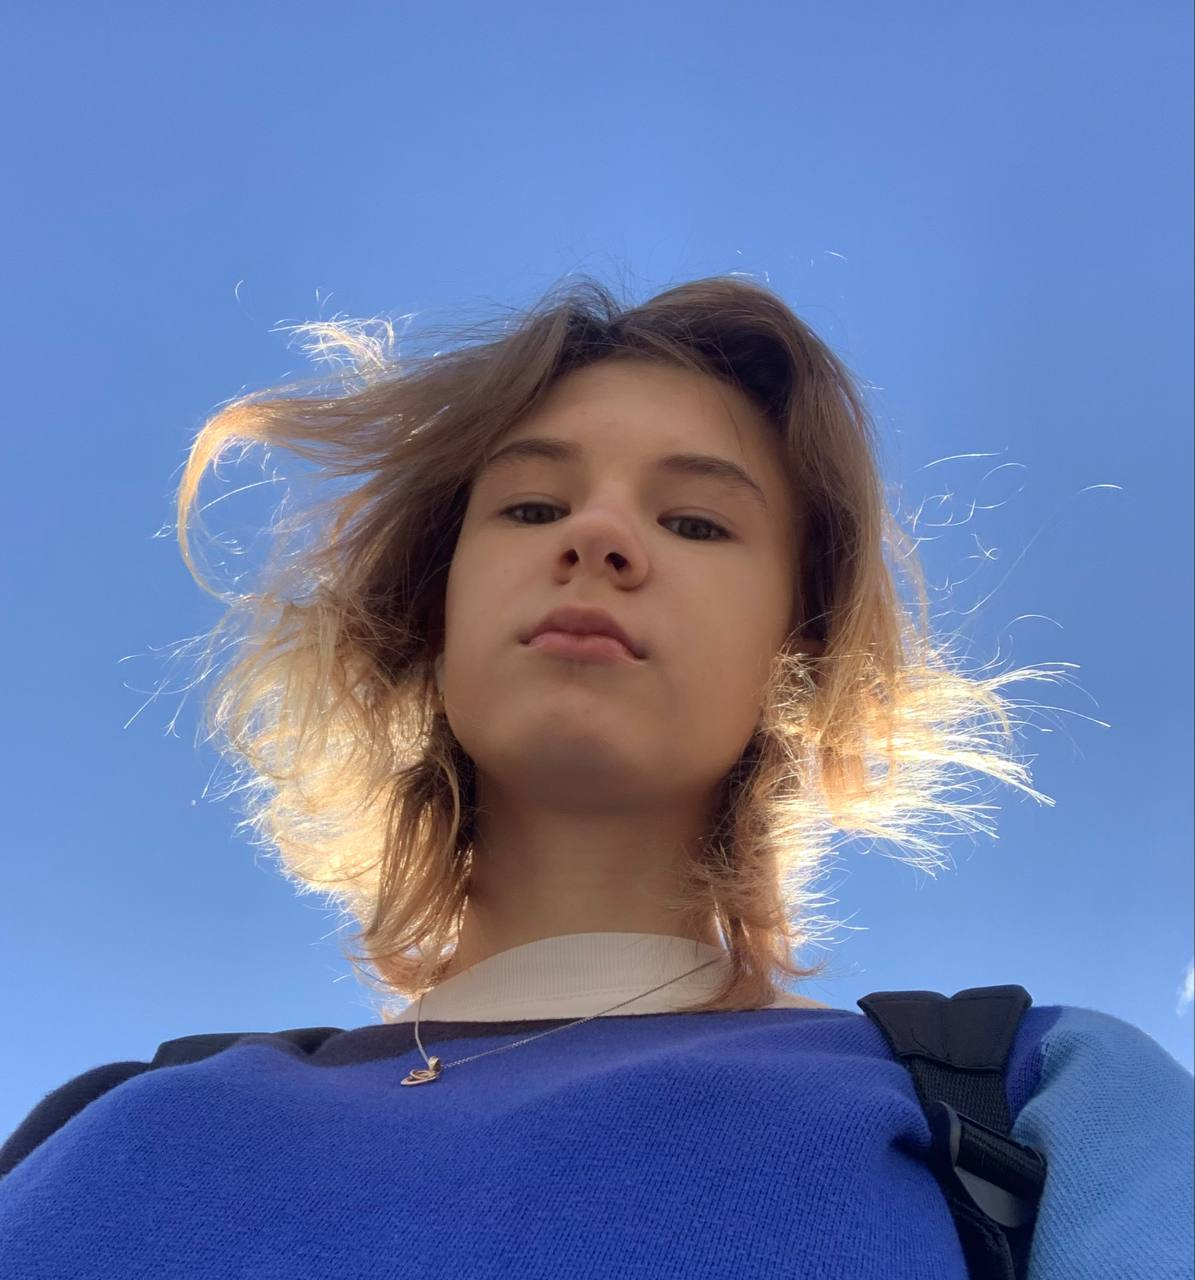
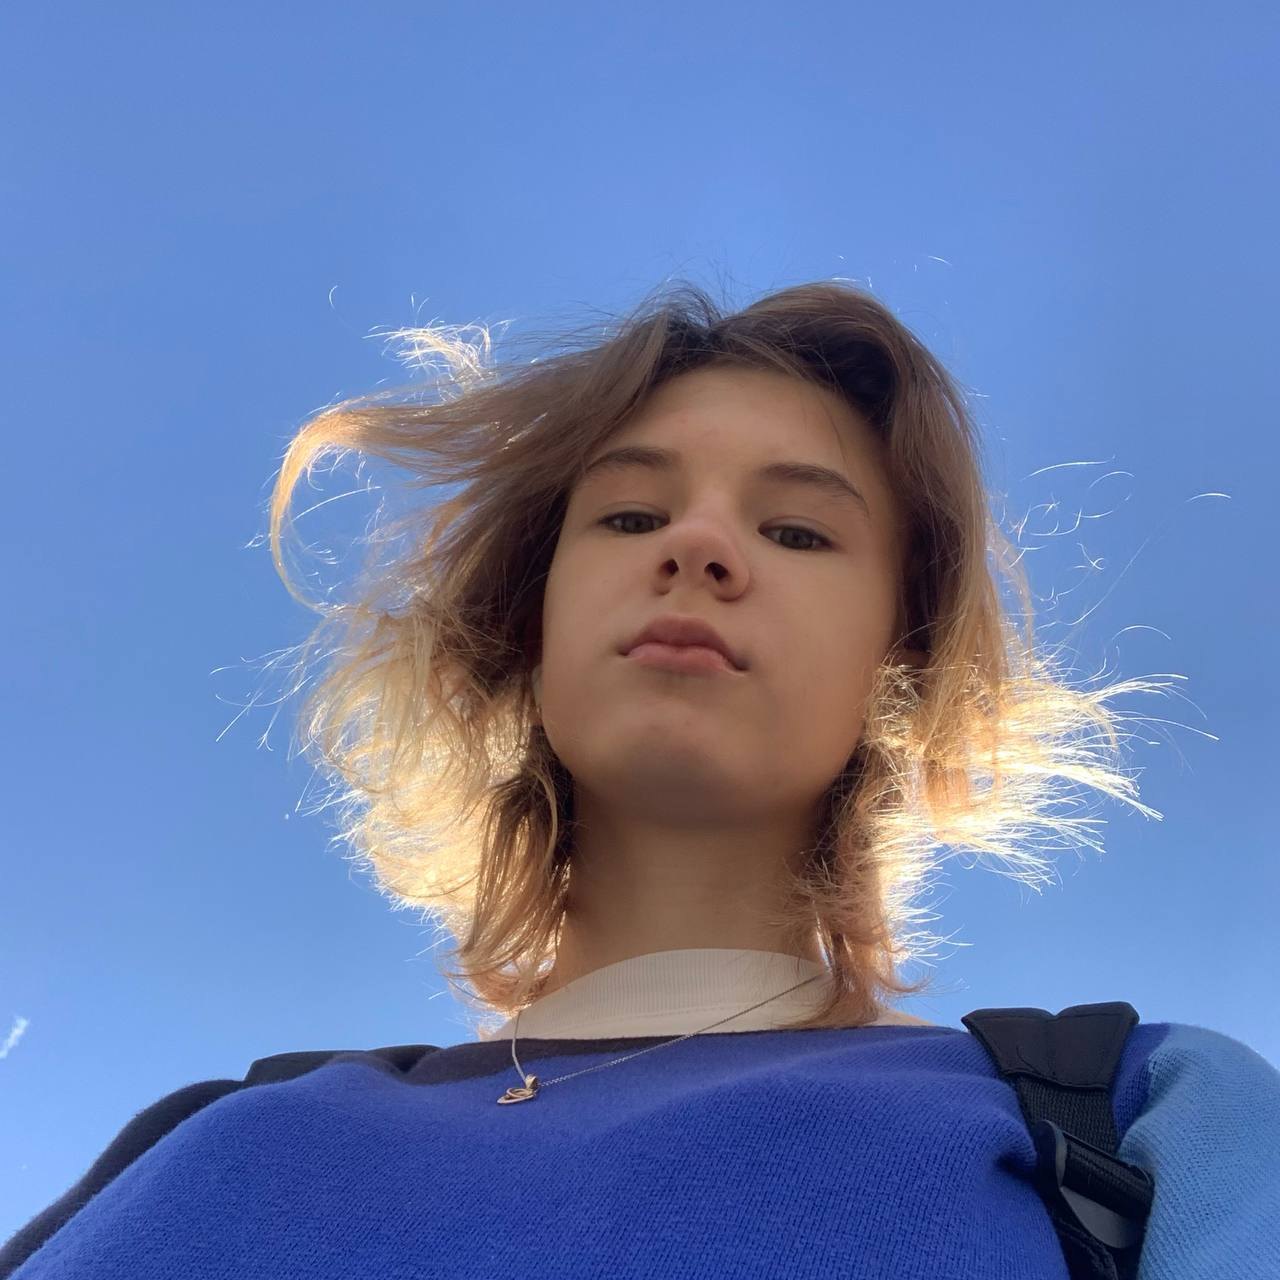
structure issue + Frolova_Zlata.jpg
исправление ошибок с импортом модулей scss и изменение карточки златы

diff --git a/Webserver/Pages/project/about-the-project.tsx b/Webserver/Pages/project/about-the-project.tsx
@@ -1,5 +1,5 @@
-import box from "../Public/Styles/Imports/Global/box.module.scss";
-import inDevelopment from "../Public/Styles/Imports/Placeholders/InDevelopment.module.scss";
+import box from "../../Public/Styles/Imports/Global/box.module.scss";
+import inDevelopment from "../../Public/Styles/Imports/Placeholders/InDevelopment.module.scss";
 
 export default function AboutProject() {
     return (

diff --git a/Webserver/Pages/developers/structure.tsx b/Webserver/Pages/developers/structure.tsx
@@ -1,5 +1,5 @@
-import box from "../Public/Styles/Imports/Global/box.module.scss";
-import inDevelopment from "../Public/Styles/Imports/Placeholders/InDevelopment.module.scss";
+import box from "../../Public/Styles/Imports/Global/box.module.scss";
+import inDevelopment from "../../Public/Styles/Imports/Placeholders/InDevelopment.module.scss";
 
 export default function Structure() {
     return (

diff --git a/Webserver/Pages/our/homework.tsx b/Webserver/Pages/our/homework.tsx
@@ -1,5 +1,5 @@
-import box from "../Public/Styles/Imports/Global/box.module.scss";
-import inDevelopment from "../Public/Styles/Imports/Placeholders/InDevelopment.module.scss";
+import box from "../../Public/Styles/Imports/Global/box.module.scss";
+import inDevelopment from "../../Public/Styles/Imports/Placeholders/InDevelopment.module.scss";
 
 export default function Homework() {
     return (

diff --git a/Webserver/Pages/our/schedule.tsx b/Webserver/Pages/our/schedule.tsx
@@ -1,5 +1,5 @@
-import box from "../Public/Styles/Imports/Global/box.module.scss";
-import inDevelopment from "../Public/Styles/Imports/Placeholders/InDevelopment.module.scss";
+import box from "../../Public/Styles/Imports/Global/box.module.scss";
+import inDevelopment from "../../Public/Styles/Imports/Placeholders/InDevelopment.module.scss";
 
 export default function Schedule() {
     return (

diff --git a/Webserver/Pages/developers/docs.tsx b/Webserver/Pages/developers/docs.tsx
@@ -1,5 +1,5 @@
-import box from "../Public/Styles/Imports/Global/box.module.scss";
-import inDevelopment from "../Public/Styles/Imports/Placeholders/InDevelopment.module.scss";
+import box from "../../Public/Styles/Imports/Global/box.module.scss";
+import inDevelopment from "../../Public/Styles/Imports/Placeholders/InDevelopment.module.scss";
 
 export default function Docs() {
     return (
